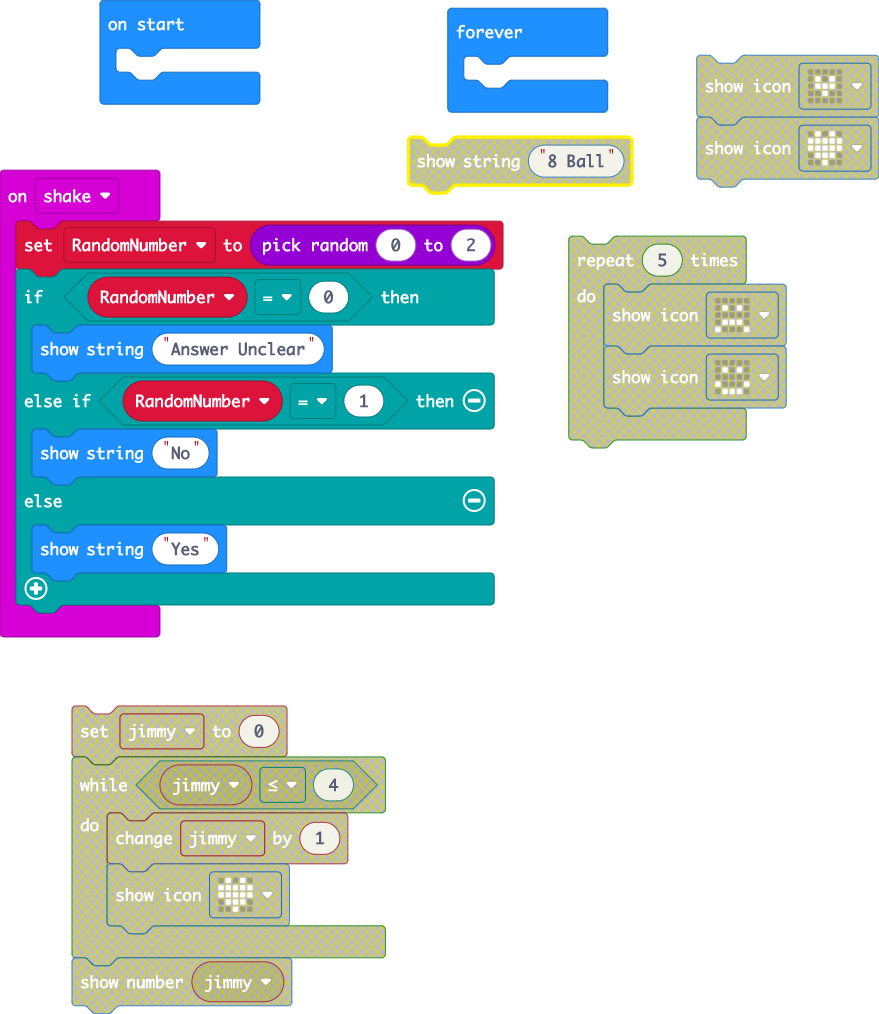
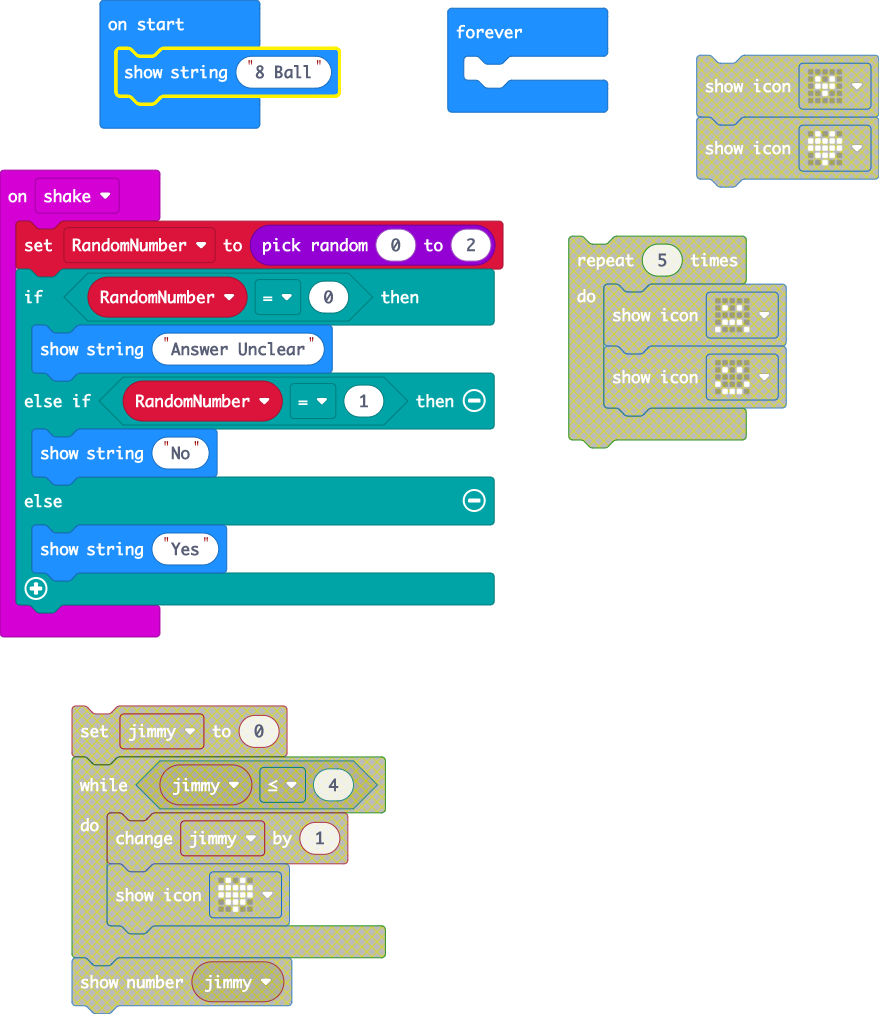
Update main.blocks, main.ts

Changed region(s): [[0.0922, 0.0306, 0.3993, 0.1529], [0.4608, 0.1223, 0.7372, 0.214]]

diff --git a/main.ts b/main.ts
@@ -1,4 +1,3 @@
-let RandomNumber = 0
 input.onGesture(Gesture.Shake, function () {
     RandomNumber = randint(0, 2)
     if (RandomNumber == 0) {
@@ -9,6 +8,8 @@ input.onGesture(Gesture.Shake, function () {
         basic.showString("Yes")
     }
 })
+let RandomNumber = 0
+basic.showString("8 Ball")
 basic.forever(function () {
 	
 })
